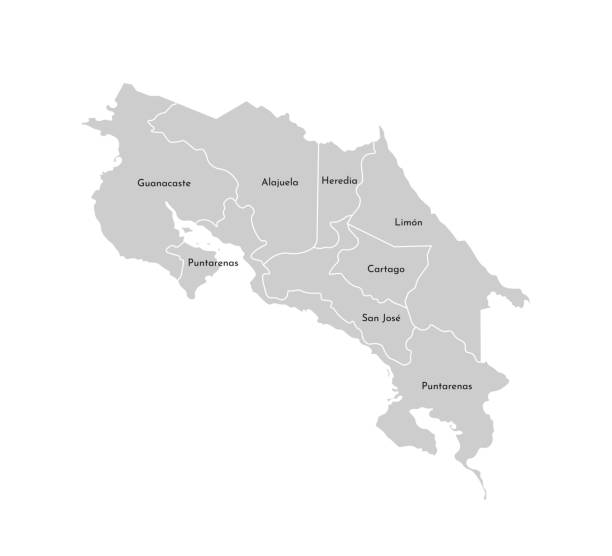
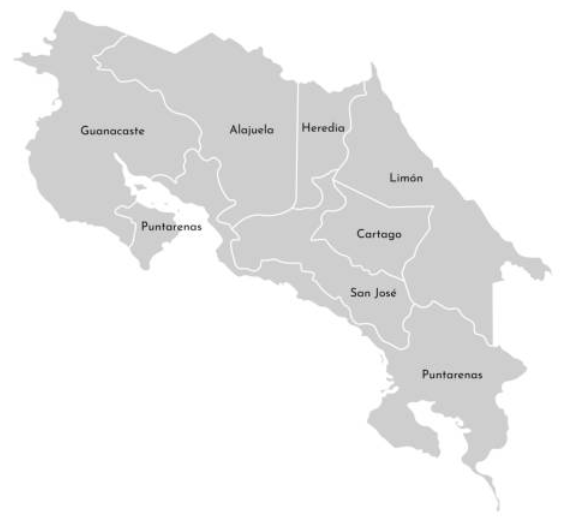
en el contenedor de la imagen del mapa, hazla un poco mas grande

diff --git a/src/components/map/interactive-map.tsx b/src/components/map/interactive-map.tsx
@@ -10,15 +10,15 @@ type InteractiveMapProps = {
 };
 
 // Dimensiones del mapa basadas en la relación de aspecto de la imagen
-const MAP_WIDTH = 560;
-const MAP_HEIGHT = 500;
+const MAP_WIDTH = 700;
+const MAP_HEIGHT = 625;
 
 // Límites geográficos de Costa Rica (AJUSTADOS PARA MAYOR PRECISIÓN)
 const bounds = {
-    minLng: -86.0,  // Extremo Oeste
-    maxLng: -82.4,  // Extremo Este (Ajustado para extender el mapa)
-    minLat: 8.0,    // Extremo Sur
-    maxLat: 11.25,   // Extremo Norte
+    minLng: -86.2,  // Extremo Oeste
+    maxLng: -82.2,  // Extremo Este (Ajustado para extender el mapa)
+    minLat: 7.8,    // Extremo Sur
+    maxLat: 11.4,   // Extremo Norte
 };
 
 // Convierte coordenadas de latitud/longitud a coordenadas porcentuales (top/left)
